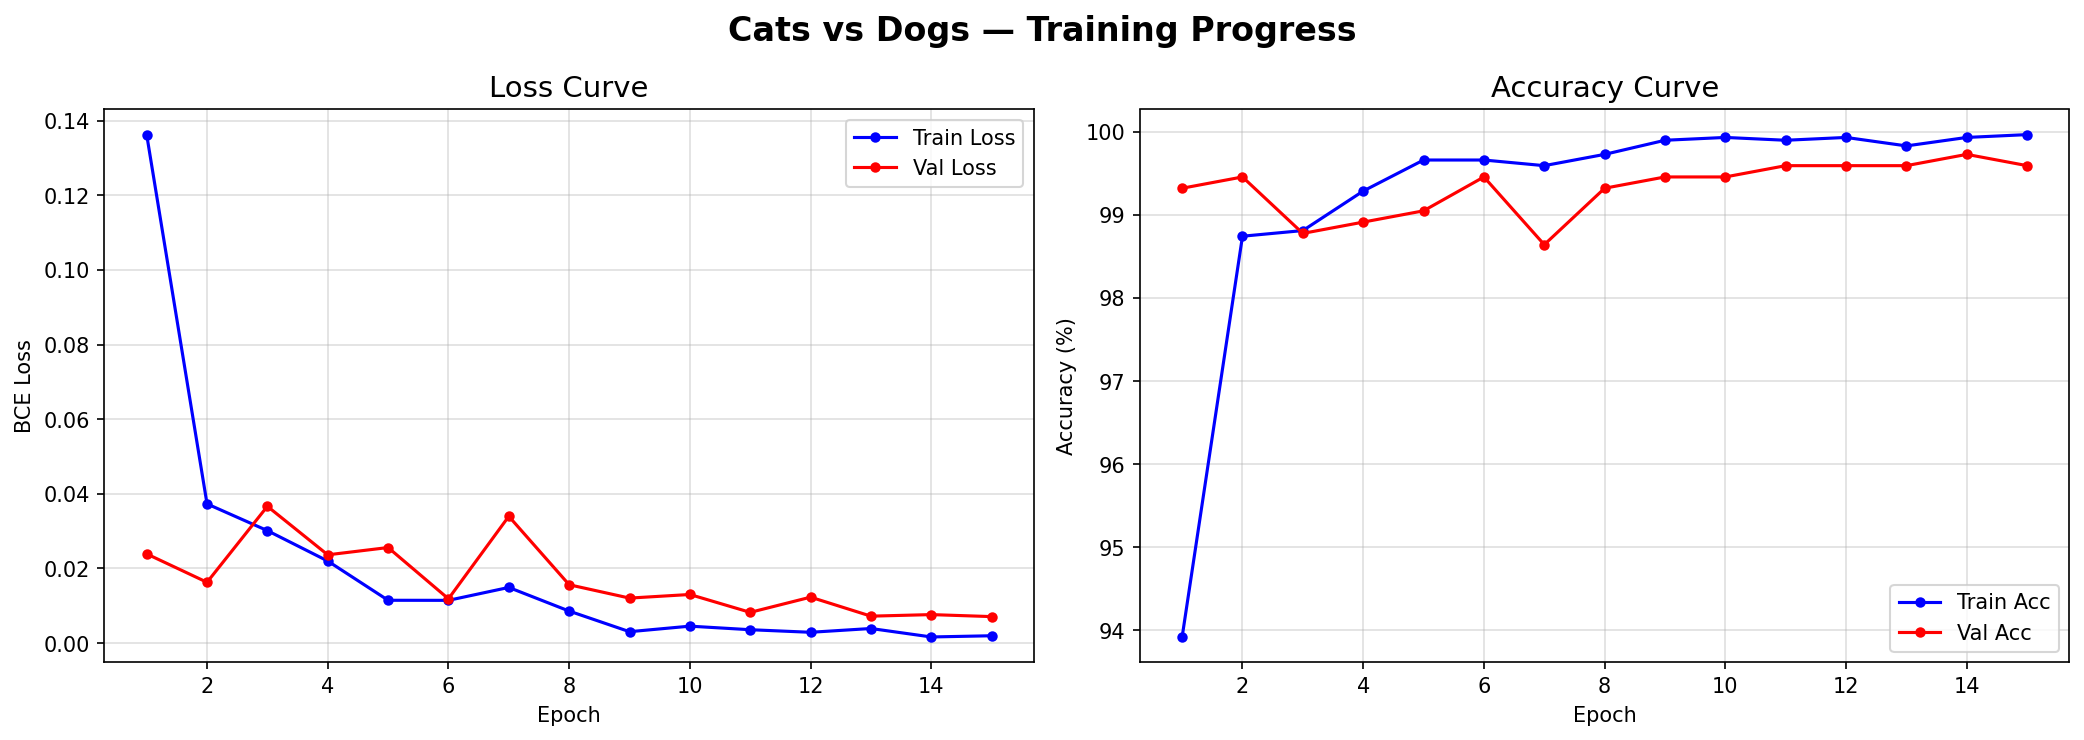
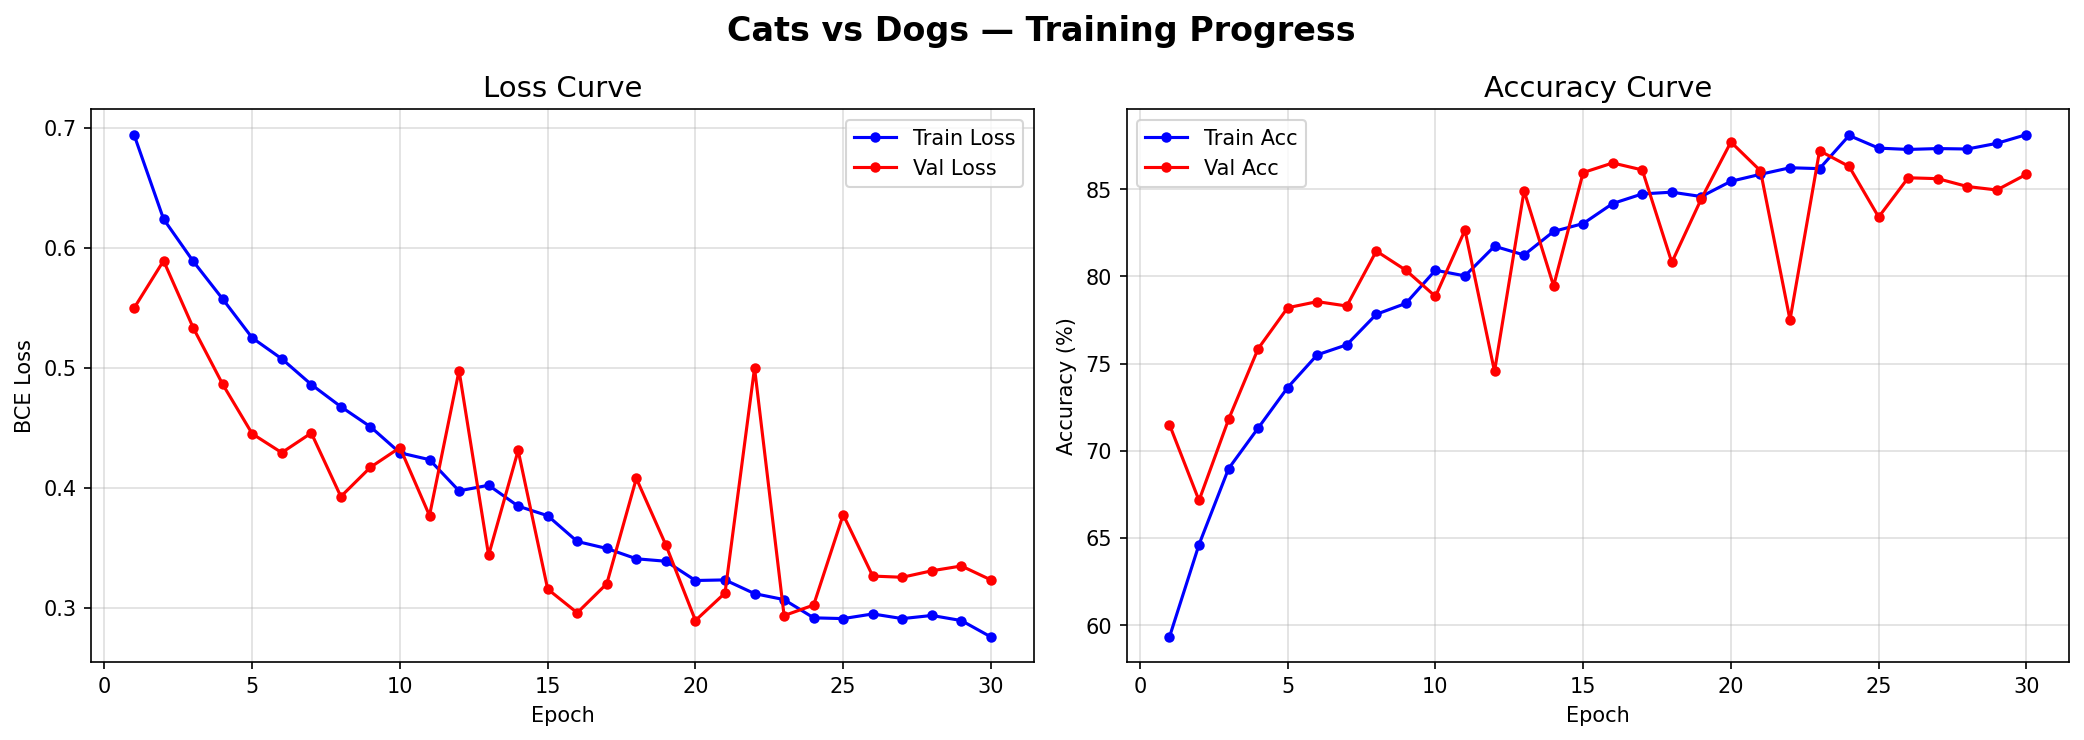
Add BatchNorm+Dropout to CatDogCNN; retrain balanced 2000+2000; add bat launchers
- model.py: add BatchNorm2d after each conv block, Dropout(0.5) before final linear
- Retrained 30 epochs, balanced 2000 cats + 2000 dogs, 2000 val
- Best val accuracy: 87.70% (Cat: 83.0%, Dog: 88.3%), up from 78.94% unbalanced
- Add run_app.bat and run_train.bat launchers for Windows users
- Update output: training_history.json, training_curves.png, confusion_matrix.png

diff --git a/model.py b/model.py
@@ -38,13 +38,13 @@ class CatDogCNN(nn.Module):
     Output: (B, 2)           — raw logits [logit(Cat), logit(Dog)]
 
     Architecture (spatial sizes after each block):
-      Block 1: Conv(3→32, k=3, pad=0)  + ReLU + MaxPool(2) → (B, 32,  74, 74)
-      Block 2: Conv(32→64, k=3, pad=0) + ReLU + MaxPool(2) → (B, 64,  36, 36)
-      Block 3: Conv(64→128,k=3, pad=0) + ReLU + MaxPool(2) → (B, 128, 17, 17)
-      Block 4: Conv(128→128,k=3,pad=0) + ReLU + MaxPool(2) → (B, 128,  7,  7)
-      Flatten                                               → (B, 6272)
-      Linear(6272→512) + ReLU                               → (B, 512)
-      Linear(512→2)                                         → (B, 2)  raw logits
+      Block 1: Conv(3→32, k=3, pad=0)  + BN(32)  + ReLU + MaxPool(2) → (B, 32,  74, 74)
+      Block 2: Conv(32→64, k=3, pad=0) + BN(64)  + ReLU + MaxPool(2) → (B, 64,  36, 36)
+      Block 3: Conv(64→128,k=3, pad=0) + BN(128) + ReLU + MaxPool(2) → (B, 128, 17, 17)
+      Block 4: Conv(128→128,k=3,pad=0) + BN(128) + ReLU + MaxPool(2) → (B, 128,  7,  7)
+      Flatten                                                          → (B, 6272)
+      Linear(6272→512) + ReLU + Dropout(0.5)                          → (B, 512)
+      Linear(512→2)                                                    → (B, 2)  raw logits
 
     Loss: nn.CrossEntropyLoss — expects raw logits, applies log_softmax internally.
     Inference: apply torch.softmax(output, dim=1) to convert logits to probabilities.
@@ -60,21 +60,25 @@ class CatDogCNN(nn.Module):
         self.features = nn.Sequential(
             # Block 1: 150×150 → 148×148 → 74×74
             nn.Conv2d(3, 32, kernel_size=3, padding=0),
+            nn.BatchNorm2d(32),
             nn.ReLU(),
             nn.MaxPool2d(2, 2),
 
             # Block 2: 74×74 → 72×72 → 36×36
             nn.Conv2d(32, 64, kernel_size=3, padding=0),
+            nn.BatchNorm2d(64),
             nn.ReLU(),
             nn.MaxPool2d(2, 2),
 
             # Block 3: 36×36 → 34×34 → 17×17
             nn.Conv2d(64, 128, kernel_size=3, padding=0),
+            nn.BatchNorm2d(128),
             nn.ReLU(),
             nn.MaxPool2d(2, 2),
 
             # Block 4: 17×17 → 15×15 → 7×7
             nn.Conv2d(128, 128, kernel_size=3, padding=0),
+            nn.BatchNorm2d(128),
             nn.ReLU(),
             nn.MaxPool2d(2, 2),
         )
@@ -83,6 +87,7 @@ class CatDogCNN(nn.Module):
             nn.Flatten(),
             nn.Linear(128 * 7 * 7, 512),   # 6272 → 512
             nn.ReLU(),
+            nn.Dropout(0.5),               # reduces overfitting before final layer
             nn.Linear(512, 2),              # 512  → 2 raw logits (no Softmax here)
             # NOTE: do NOT add Softmax here — CrossEntropyLoss applies log_softmax
             # internally and requires raw logits. Apply torch.softmax() at inference.
@@ -114,4 +119,5 @@ if __name__ == "__main__":
     out    = model(batch)
     params = sum(p.numel() for p in model.parameters() if p.requires_grad)
     print(f"[CatDogCNN] output={out.shape}  trainable_params={params:,}")
-    # expected: output=torch.Size([4, 2])  trainable_params=3,453,634
+    # expected: output=torch.Size([4, 2])  trainable_params=3,454,338
+    # (3,453,634 original + 704 BatchNorm learnable params)
